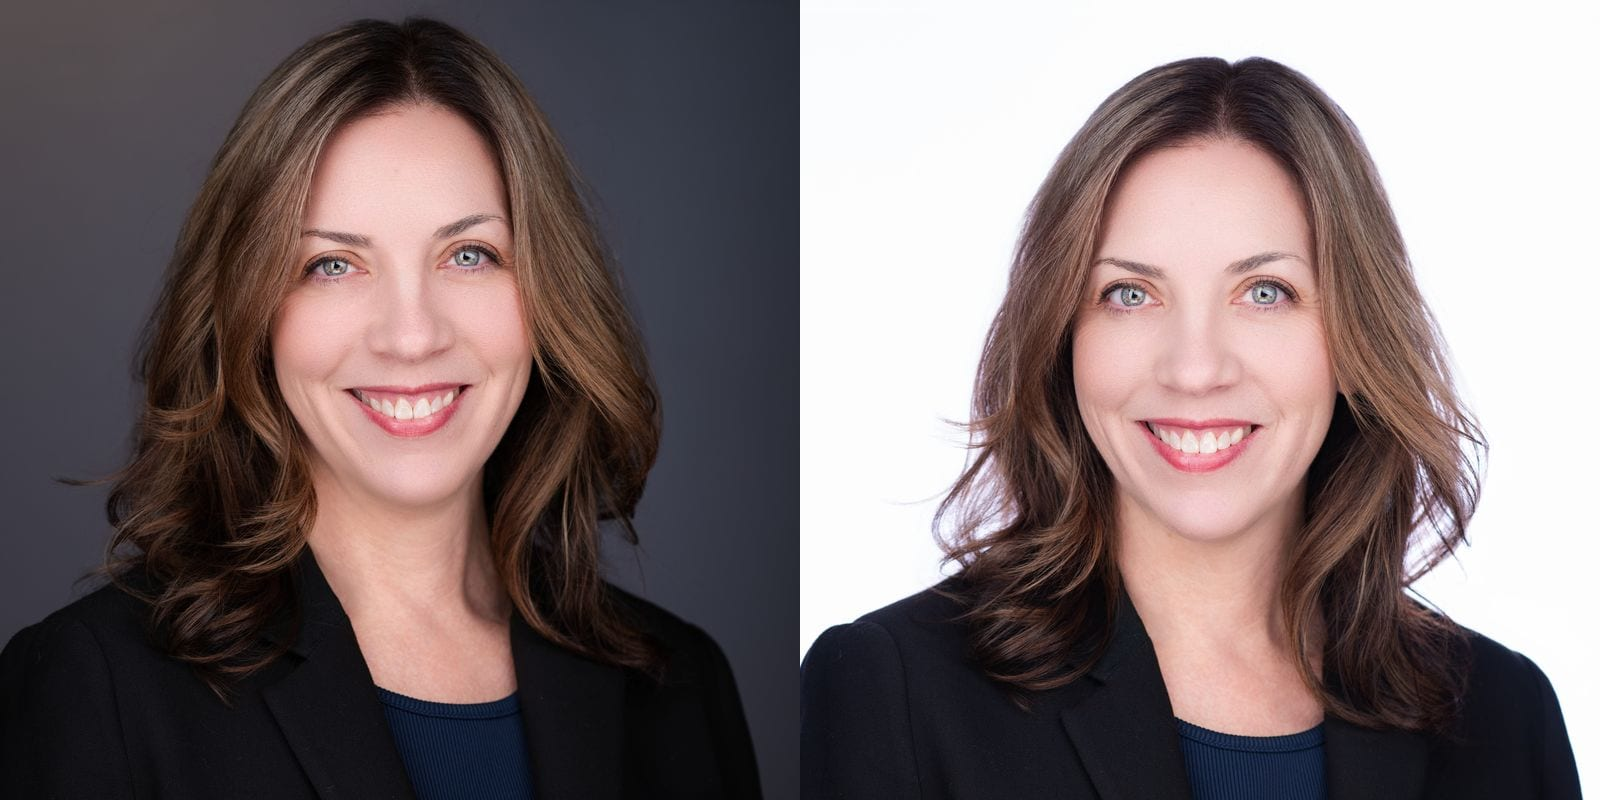
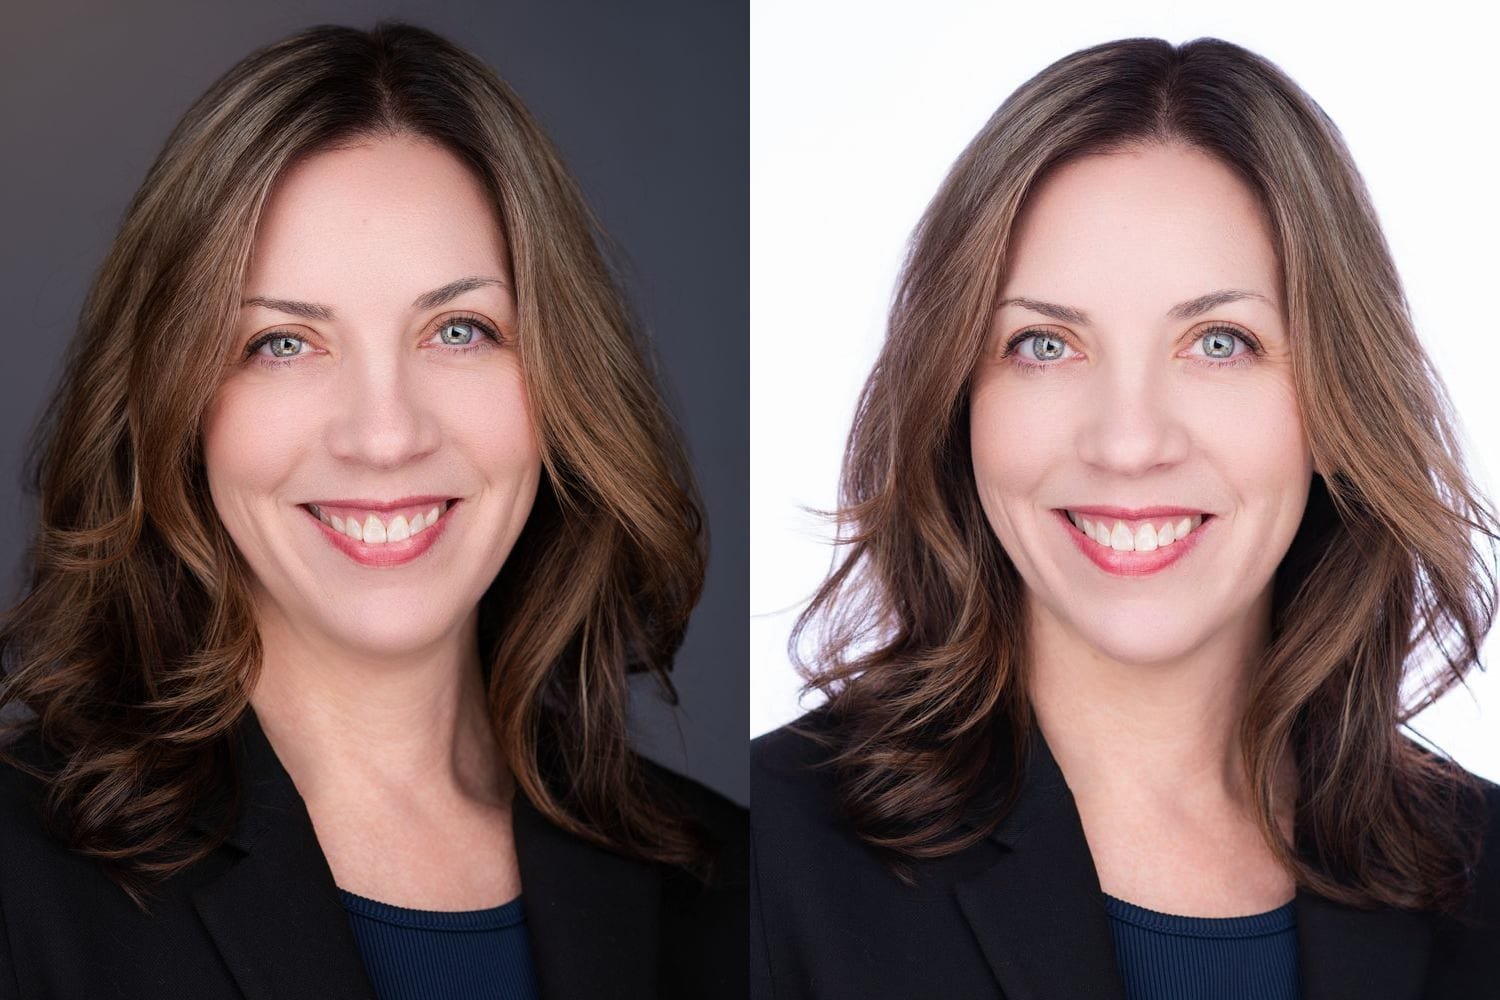
Kaiser Work card: exact 3:2 gray/white pair, eyes and scale matched

diff --git a/app/work/kaiser-innovations-team-headshots/page.tsx b/app/work/kaiser-innovations-team-headshots/page.tsx
@@ -25,8 +25,8 @@ export const metadata: Metadata = {
     images: [
       {
         url: 'https://rojasphotography.net/images/work/kaiser-innovations-team/kaiser-team-headshots-gray-white.jpg',
-        width: 1600,
-        height: 800,
+        width: 1500,
+        height: 1000,
         alt: 'The same Kaiser Permanente team headshot on a gray background and a white background',
       },
     ],
